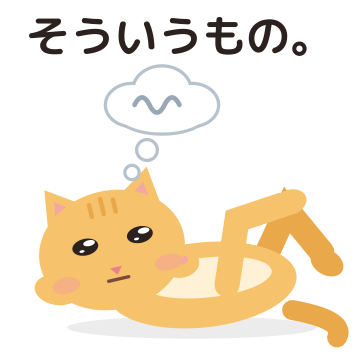
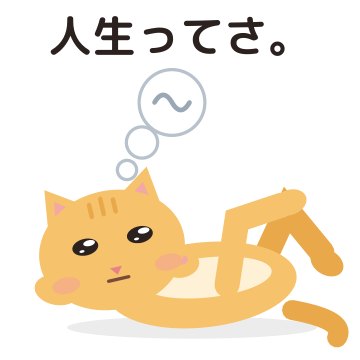
Sticker 03: a bubble of three growing circles; English "Life, you know." and Japanese "人生ってさ。"; sets rebuilt

Changed region(s): [[0.0611, 0.0306, 0.8556, 0.5194]]

diff --git a/docs/plans/assets/stickers/build_stickers.py b/docs/plans/assets/stickers/build_stickers.py
@@ -241,14 +241,13 @@ def wrap(inner, x, y, s):
 
 # ---- sticker-only art (not in the app): the lounging cat (3), the curled-up sleeper (9), the rain (10), confetti (7) ----
 def thought_bubble():
-    """A hazy thought bubble (a cloud with two small trailing circles and a wavy line inside): vague, drifting thoughts."""
+    """A thought bubble drawn as three round bubbles that grow as they rise from the head, a wavy line in the biggest one:
+    vague, drifting thoughts."""
     grey, white = "#b8c2cc", "#ffffff"
-    parts = ((40, 26, 10, 8), (52, 20, 11, 9), (64, 26, 10, 8), (52, 29, 18, 8))
-    o = "".join(f'<ellipse cx="{x}" cy="{y}" rx="{rx + 1.3}" ry="{ry + 1.3}" fill="{grey}"/>' for x, y, rx, ry in parts)
-    o += f'<circle cx="46" cy="44" r="4.8" fill="{grey}"/><circle cx="40" cy="53" r="3.5" fill="{grey}"/>'
-    o += "".join(f'<ellipse cx="{x}" cy="{y}" rx="{rx}" ry="{ry}" fill="{white}"/>' for x, y, rx, ry in parts)
-    o += f'<circle cx="46" cy="44" r="3.5" fill="{white}"/><circle cx="40" cy="53" r="2.2" fill="{white}"/>'
-    o += stroke_path("M41 26 q3 -6 6 0 t6 0 t6 0", "#9aa7b5", 1.9)
+    circles = ((38, 52, 3.2), (44, 41, 5.6), (56, 25, 12.5))
+    o = "".join(f'<circle cx="{x}" cy="{y}" r="{r + 1.3}" fill="{grey}"/>' for x, y, r in circles)
+    o += "".join(f'<circle cx="{x}" cy="{y}" r="{r}" fill="{white}"/>' for x, y, r in circles)
+    o += stroke_path("M49 25 q3.5 -6 7 0 t7 0", "#9aa7b5", 1.9)
     return o
 
 
@@ -537,7 +536,7 @@ V1 = [
     # (title vi, title en, title ja), (scene vi, scene en, scene ja), (text en, text ja)
     (("Chào buổi sáng", "Good morning", "おはよう"), ("vươn vai và ngáp", "stretches and yawns", "のびをしてあくびをしている"), ("Good morning!", "おはよう！")),
     (("Sướng quá", "Bliss", "きもちいい"), ("nhắm mắt sung sướng, được gãi đầu", "eyes shut in bliss, being scratched", "うっとり目を閉じて頭をなでられている"), ("So good~", "きもちいい〜")),
-    (("Cuộc sống mà", "That's life", "そういうもの"), ("nằm ngửa vắt chân, vẻ thản nhiên, bong bóng suy nghĩ mông lung", "lies back with crossed legs, deadpan, a hazy thought bubble above", "足を組んで寝転び、すました顔で、ぼんやりした考えの吹き出しが浮かんでいる"), ("That's life.", "そういうもの。")),
+    (("Cuộc sống mà", "Life, you know", "人生ってさ"), ("nằm ngửa vắt chân, vẻ thản nhiên, bong bóng suy nghĩ mông lung", "lies back with crossed legs, deadpan, a hazy thought bubble above", "足を組んで寝転び、すました顔で、ぼんやりした考えの吹き出しが浮かんでいる"), ("Life, you know.", "人生ってさ。")),
     (("Buồn ngủ", "Sleepy", "ねむい"), ("gật gù buồn ngủ, có chữ z bay lên", "nods off with a floating z", "うとうとして「z」が浮かんでいる"), ("Sleepy…", "ねむい…")),
     (("Hừm", "Hmph", "むっ"), ("ngồi lườm hờn, thở ra mấy làn khói nhỏ", "sulks with a half-lidded glare and little puffs", "半目でむっとして、小さく息をはいている"), ("Hmph.", "むっ。")),
     (("Quá sức mèo rồi", "Too much for a cat", "ねこには無理"), ("mắt buồn, tai cụp, quá sức", "looks overwhelmed, ears down", "耳をたたんで、手に負えない様子"), ("Too much for a cat.", "ねこには無理！")),

diff --git a/docs/plans/sticker-set-v0.md b/docs/plans/sticker-set-v0.md
@@ -31,6 +31,8 @@ All 15 stickers, the icon, the preview and the 9 banners exist as PNG in [`asset
 
 **Third pass (2026-11-11):** the six stickers that looked alike at 120 px now differ by silhouette or gesture: 05 sits and puffs, 08 beckons with a raised paw, 14 rests a paw on the chin under a thought bubble, 15 giggles behind a paw, 16 claps slowly, 17 turns side-on (see [`six_distinct.png`](assets/stickers/direction-v1/six_distinct.png)); 03 lost its thought dots. The paws and arcs are sticker art, not rig poses.
 
+**Sticker 03, again (2026-11-11, the author):** the bubble is three round bubbles that grow as they rise, with a wavy line in the biggest (not a cloud), and the English and Japanese texts are "Life, you know." and "人生ってさ。".
+
 **Sticker 03 (2026-11-11, the author):** the Vietnamese text is now "Cuộc sống mà." and the cat has a hazy thought bubble (a cloud with a wavy line inside); `set-v1` was rebuilt.
 
 **Per-language set (2026-11-11, asked by the website session after the author's decision, ADR-0053):** `set-v1` in `assets/stickers/set-v1/` has the same 20 stickers with the text in Vietnamese, English and Japanese (folders `vi`, `en`, `ja`) and a `manifest.json` (text, title, alt, reviewed, font credits). Japanese is set in M PLUS Rounded 1c (SIL OFL). English and Japanese are AI-written and unreviewed (V-99). `build_stickers.py` writes `set-v1` next to `set-v0`. `set-v0` stays until the website has moved over.

diff --git a/docs/decisions/0050-sticker-second-pass-sarcasm-lounging-and-mochi-sleep.md b/docs/decisions/0050-sticker-second-pass-sarcasm-lounging-and-mochi-sleep.md
@@ -35,6 +35,9 @@ The author asked for gentler versions of the two removed stickers (simple, cute,
 ## Later the same day (7)
 The text of sticker 03 changed from "Đời là thế." to **"Cuộc sống mà."** (Vietnamese), and the cat got a **hazy thought bubble** (a cloud with a wavy line inside) for vague, drifting thoughts. The English and Japanese lines stay ("That's life.", "そういうもの。"); the manifest's title and alt were updated.
 
+## Later the same day (8)
+The thought bubble of sticker 03 is drawn as **three round bubbles growing as they rise from the head, with a wavy line in the biggest** (not a cloud). The English and Japanese lines were changed to match the Vietnamese "Cuộc sống mà.": **"Life, you know."** and **"人生ってさ。"** (AI-written, not read by a native speaker: V-99).
+
 ## Consequences
 - Spec 06 section 7 and the set list are updated: 16 are in the app (matched to a state) and the sticker-only art is now 03, 09 and the cloud of 10; the set is 17 stickers.
 - The sarcasm texts have not been through the author's ear for Vietnamese banter (backlog E3).
